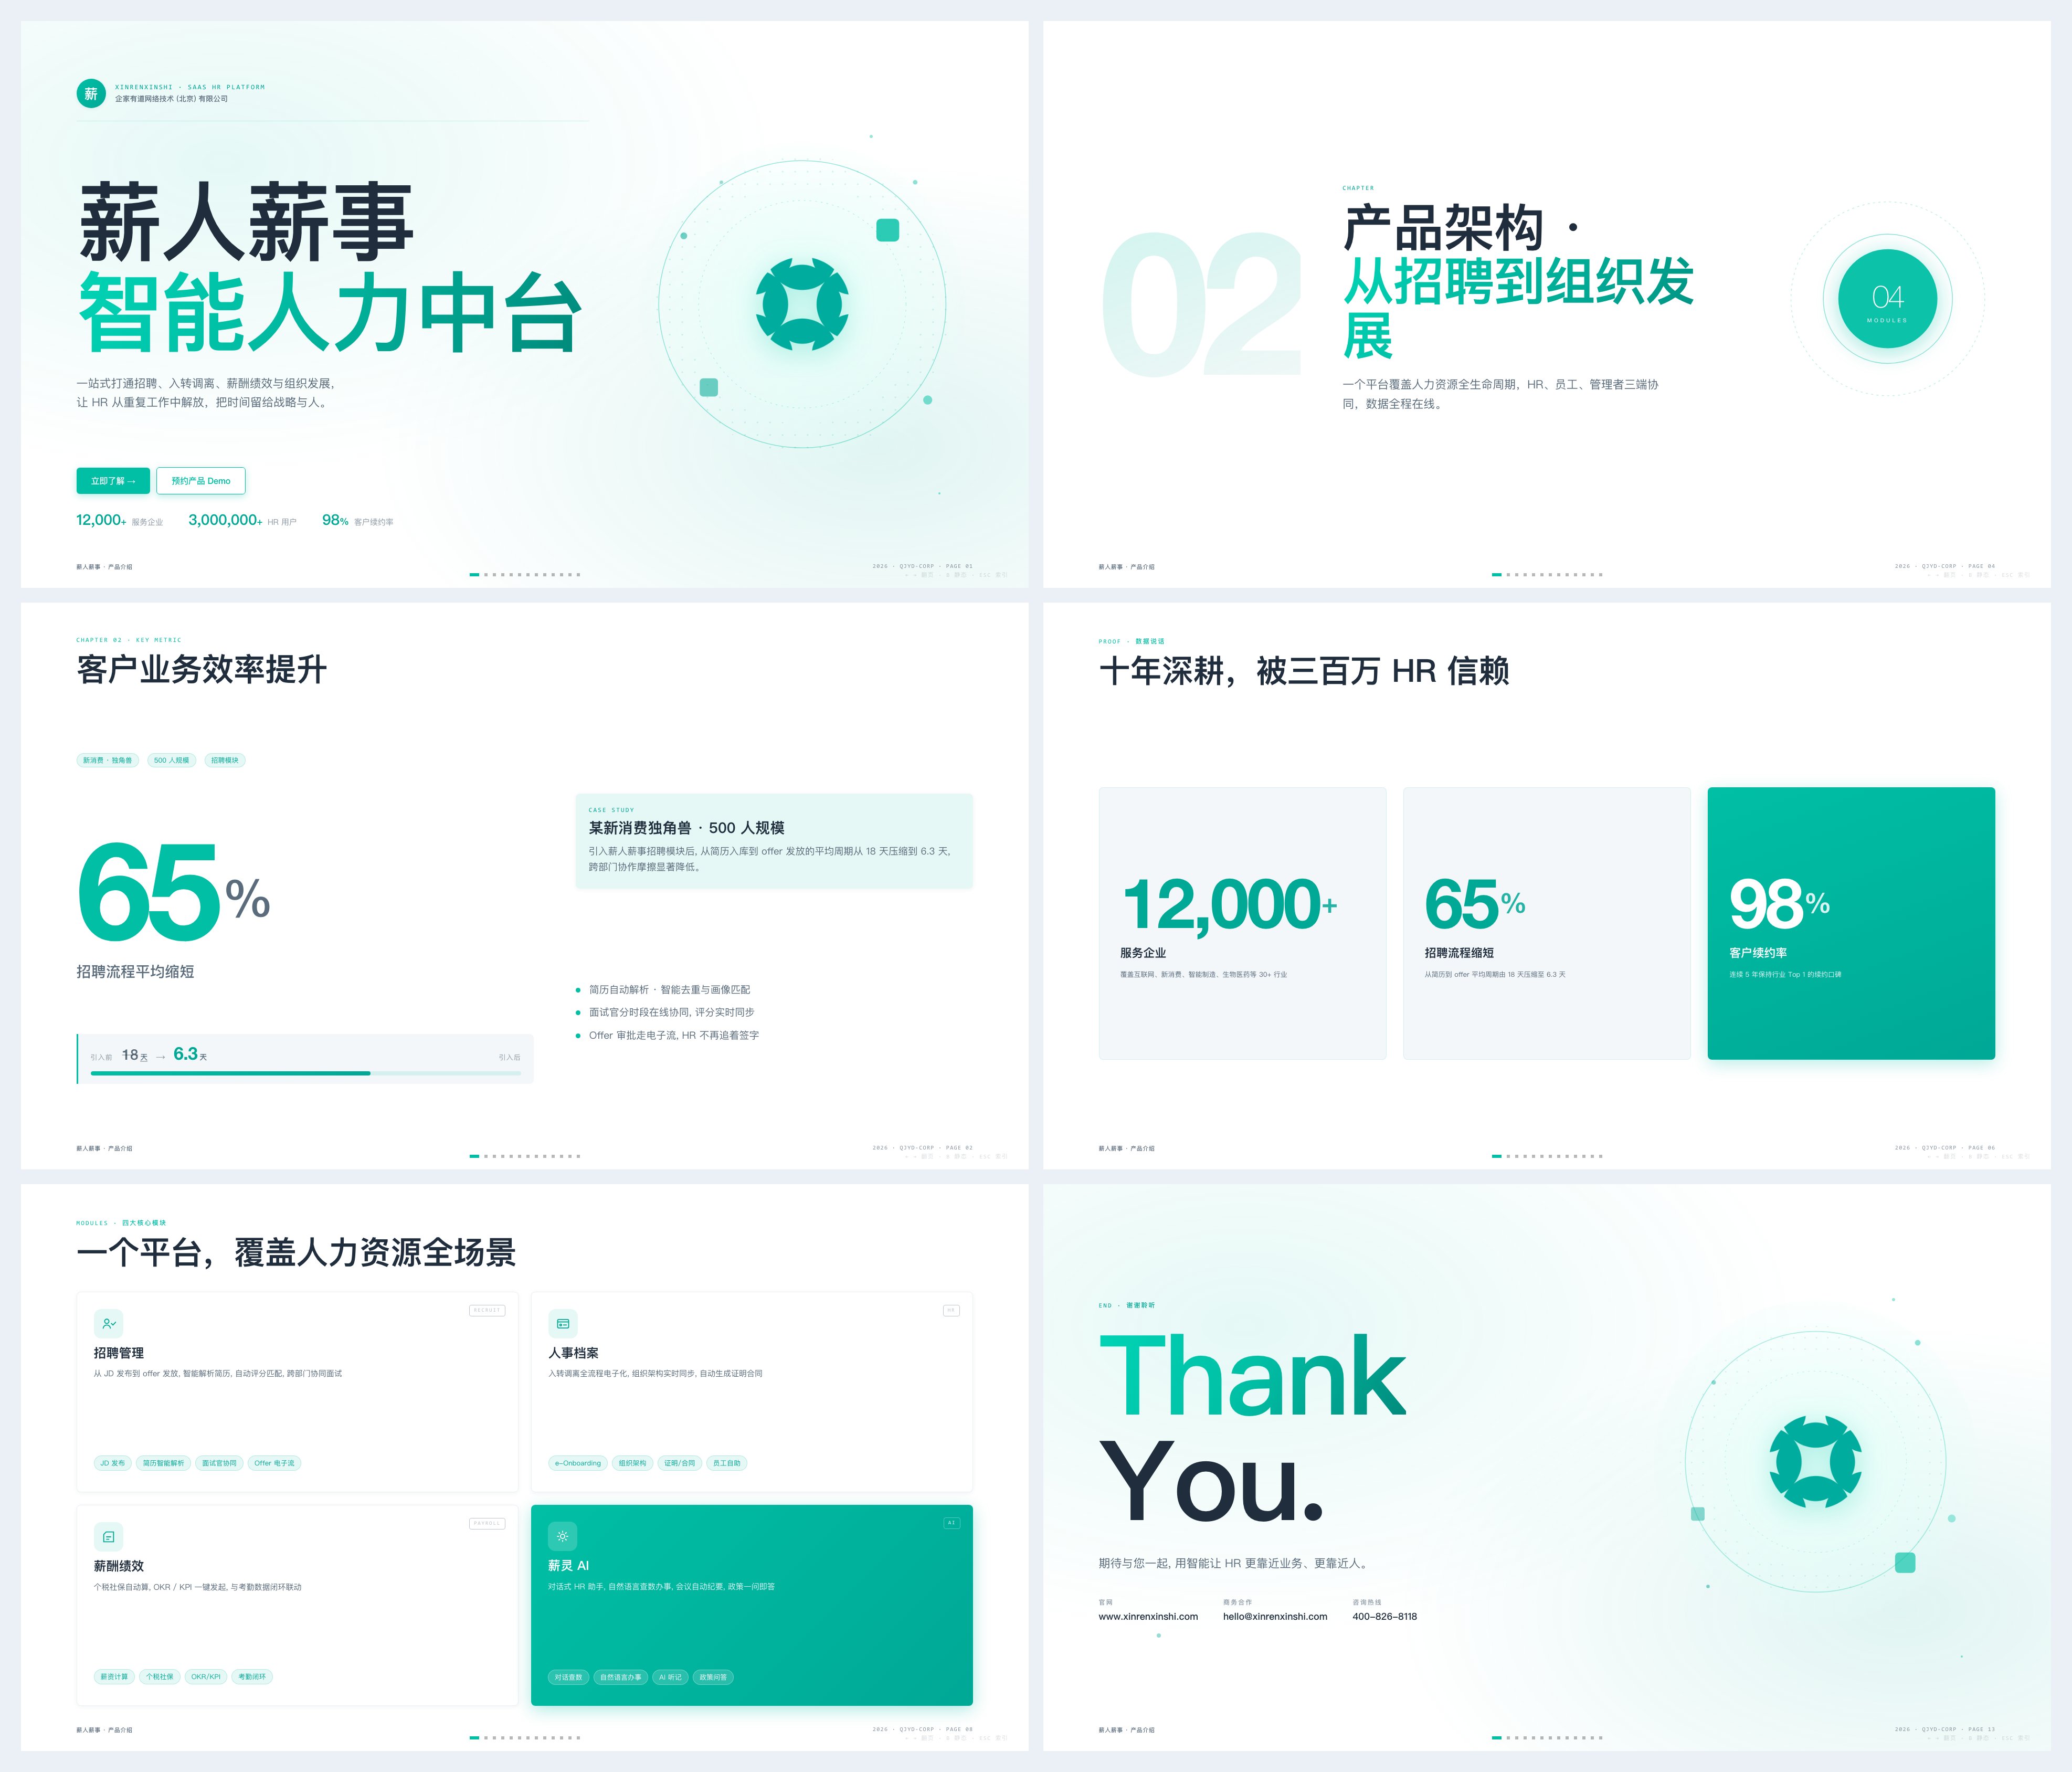
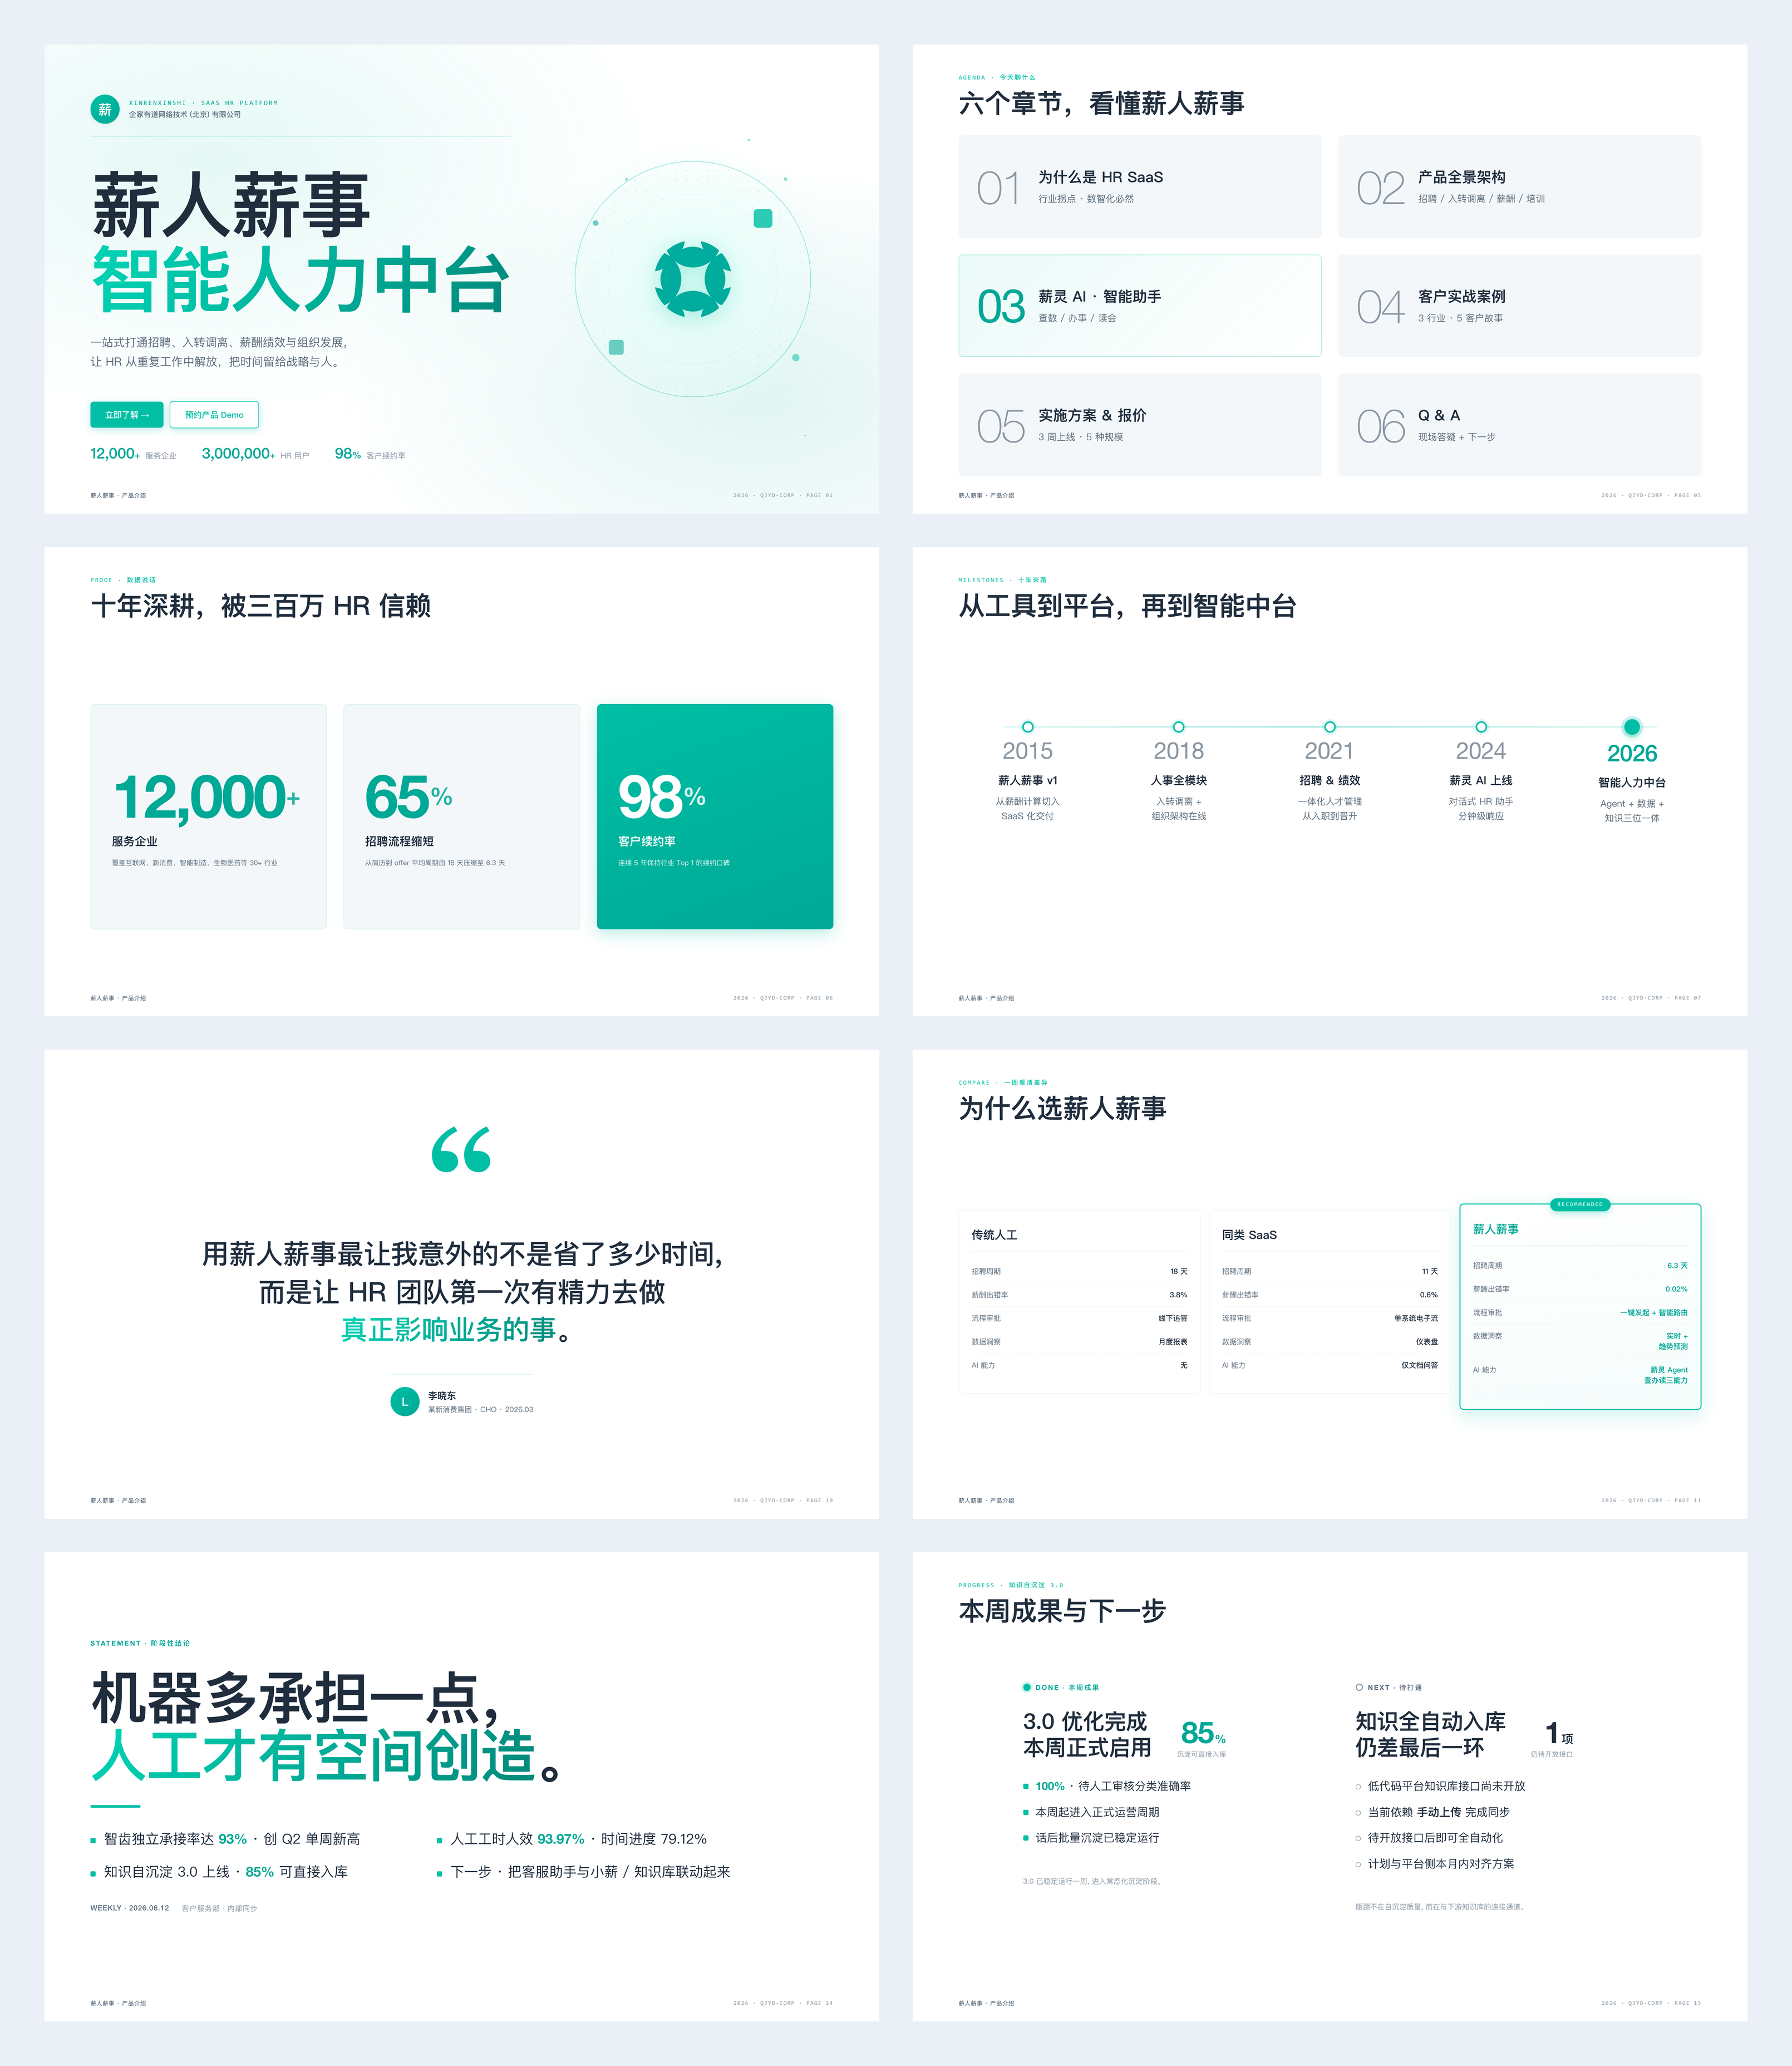
docs(readme): cover 改为 2 列 × 4 行 8 页布局, 清理"更新说明"风格表述
主要变更:

- assets/readme/style-c-cover.png 重新生成
  - 老版: 2 列 × 3 行 共 6 页 (C01/C04/C05/C06/C07/C13)
  - 新版: 2 列 × 4 行 共 8 页 (C01/C04/C06/C07/C11/C12/C15/C16)
  - 行 1 (开场): 封面 + 大数字 KPI
  - 行 2 (路径): 时间轴 + 4 卡矩阵
  - 行 3 (对比): 数据对比表 + 团队介绍
  - 行 4 (交付): 双栏对照 + 要点墙
  - 单页 1500×844 (源 3200×1800 2x), 总图 3220×3712 / 1.6 MB
  - 主动排除 C10 引言金句 (右侧大面积青绿色装饰区, 占比 43.7%)
  - C04 / C15 / C16 都是当前迭代后的最终版
- assets/readme/style-c-internal.png 删除
  - cover 已包含 C15/C16, 不需要单独的"对内同步合集"图
- README.md / README.en.md 清理 "更新说明" 风格表述
  - 删除 cover 下方的 "2026-06 新增 · 对内同步版式合集" 段落与配图
  - "瑞士风是这次新增的结构化主题" → "瑞士风是结构化的版式系统主题"
  - 红线条数: 19 → 24 (新增红线 23 注释关闭 / 24 双轨网格)
  - FAQ 中 "2026-06 更新一~九" → "版式约束沉淀" (避免持续维护章节编号)
  - 保留 fork 起源 / "新主题 · Style C" 等事实陈述, 这些是稳定描述不是更新说明

策略: README 只展示最终版, 不含"更新说明 / 新增 / 本轮"等增量叙事。

AI-Assisted-By: CodeX (glm-5.1)

diff --git a/README.en.md b/README.en.md
@@ -28,10 +28,6 @@ It ships with three visual systems:
 
 ![Style C qjyd-corp enterprise preview](./assets/readme/style-c-cover.png)
 
-> **2026-06 Added · Internal-sync layouts**: Beyond sales proposals, Style C also covers weekly / monthly reports, retros, and team syncs. Below, top to bottom: **C14 Statement** (text-only proposition) / **C15 Status Duo** (DONE vs NEXT two-column compare) / **C16 Bullet Manifest** (3×2 / 2×2 / 2×4 multi-column variants). All three are image-free and don't depend on customer assets.
-
-![Style C internal-sync layouts (C14 / C15 / C16)](./assets/readme/style-c-internal.png)
-
 ## Prerequisites
 
 ### Required
@@ -253,7 +249,7 @@ The scope extends beyond pure sales proposals to **weekly reports / monthly repo
 - **System-font first**: PingFang SC + Helvetica Neue with no Google Fonts CDN dependency; safest for intranet / restricted networks
 - **Default logo slot**: cover C01 right side and Thank You C13 right side load `./images/logo.png` first, falling back to the bundled `xrxs-logo.png` (Xinrenxinshi logo, 512×512 transparent PNG)
 - **Image placeholder vs real image separation**: templates ship with `.qjyd-img-placeholder` (production-grade placeholders); replace the entire block with `<img class="qjyd-img-fit">` once real images arrive
-- **Strict redlines**: 19 generation redlines documented in `SKILL.md`, covering container alignment, entrance motion, image parent-child contracts, accent color consistency, "placeholder is not a layout fallback", etc. qjyd-corp does not have a standalone validator like Style B, but every `<section>` must carry `data-layout="Cxx"`
+- **Strict redlines**: 24 generation redlines documented in `SKILL.md`, covering container alignment, entrance motion, image parent-child contracts, accent color consistency, "placeholder is not a layout fallback", two-rail grid, etc. qjyd-corp does not have a standalone validator like Style B, but every `<section>` must carry `data-layout="Cxx"`
 
 Best for: **SaaS product intros / sales proposals / customer cases / client-facing demos / team weekly reports / quarterly business reviews**.
 
@@ -443,7 +439,7 @@ Run the install command again, or run `git pull` inside your local skill directo
 Just drop your product logo at `images/logo.png` inside the target project. The template loads `./images/logo.png` first and only falls back to the SKILL-bundled Xinrenxinshi logo if it fails to load — the image will never break. We also recommend tuning `themes-corp.md`'s `--accent` to match your brand — but only by picking one of the 4 presets; no custom hex (aesthetic protection mechanism).
 
 **Why doesn't Style C have a strict validator like Style B?**
-Style C's layout language is more flexible than Style B (C04 / C07 / C08 all allow free composition of cards / chips). Hard rules are mainly enforced by the 19 red lines in SKILL.md and the "2026-06 Update I~IX" sections in `layouts-corp.md`. `validate-swiss-deck.mjs` is also compatible with qjyd-corp — it just verifies that every page carries `data-layout="Cxx"`.
+Style C's layout language is more flexible than Style B (C04 / C07 / C08 all allow free composition of cards / chips). Hard rules are mainly enforced by the 24 red lines in SKILL.md and the layout-constraint sections in `layouts-corp.md`. `validate-swiss-deck.mjs` is also compatible with qjyd-corp — it just verifies that every page carries `data-layout="Cxx"`.
 
 **First screenshot self-check fails with "chromium_headless_shell-XXXX not found" — what now?**
 That's Codex.app's bundled playwright not having downloaded its browser binary yet — unrelated to the skill itself. Just run the install once per [Prerequisites](#prerequisites) — ~94 MiB, takes about 80 seconds.